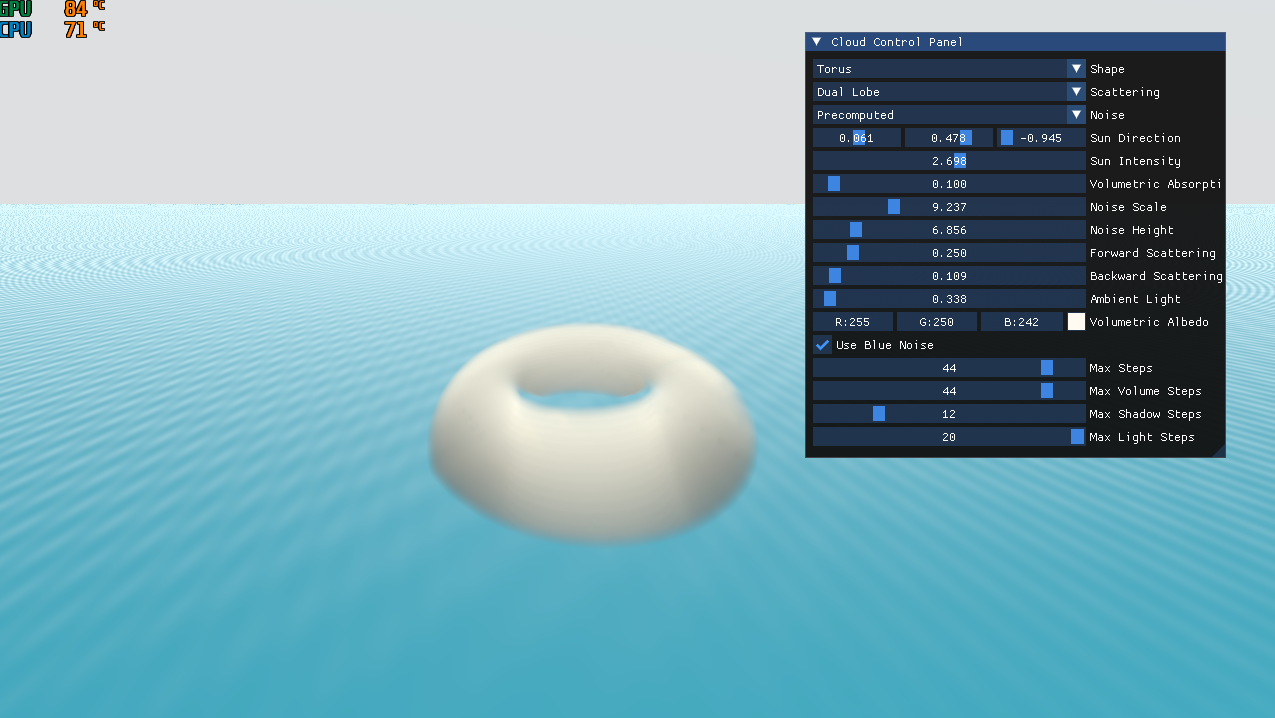
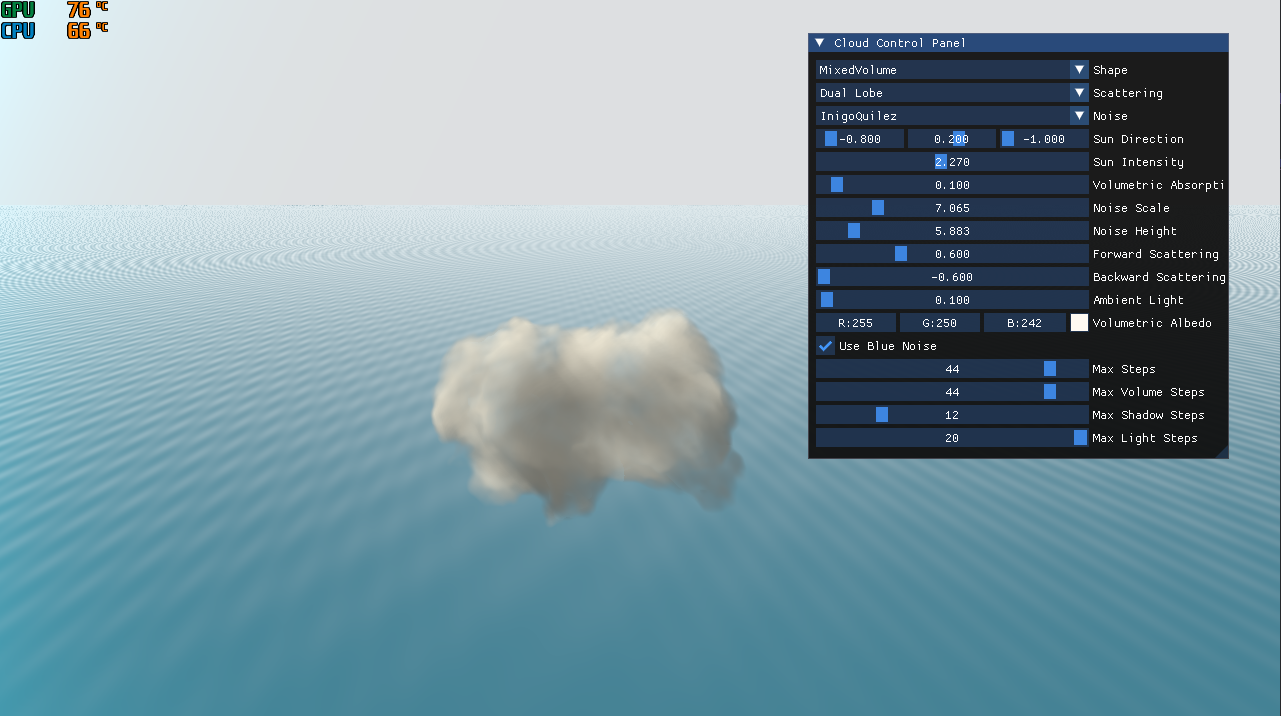
updated dual lobe result

diff --git a/README.md b/README.md
@@ -1,21 +1,21 @@
 Some recent results of my cloud scene!
 
-Beer Lambert
+Beer Lambert + perlin noise
 ![beer-lambert](assets/beer-lambert.png)
 
-Beer Lambert with Powder effect : https://www.guerrilla-games.com/read/the-real-time-volumetric-cloudscapes-of-horizon-zero-dawn
+Beer Lambert with Powder effect + perlin noise : https://www.guerrilla-games.com/read/the-real-time-volumetric-cloudscapes-of-horizon-zero-dawn
 ![beer-lamber with powder effect](assets/powder.png)
 
-Multiple Octave Scattering : https://www.researchgate.net/publication/262309690_Oz_the_great_and_volumetric 
+Multiple Octave Scattering + perlin noise : https://www.researchgate.net/publication/262309690_Oz_the_great_and_volumetric 
 ![multiple octave scattering](assets/mos.png)
 
-Forward Scattering
+Forward Scattering + perlin noise
 ![forward scattering](assets/forward.png)
 
-Backward Scattering
+Backward Scattering + perlin-worley noise
 ![backward scattering](assets/backward.png)
 
-Dual Lobe Scattering
+Dual Lobe Scattering precomputed + inigo-quilez noise : https://iquilezles.org/articles/gradientnoise/
 ![dual lobe scattering](assets/dual_lobe.png)
 
 
